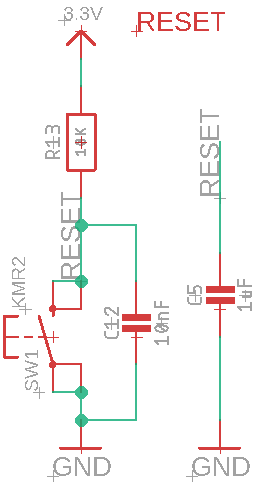
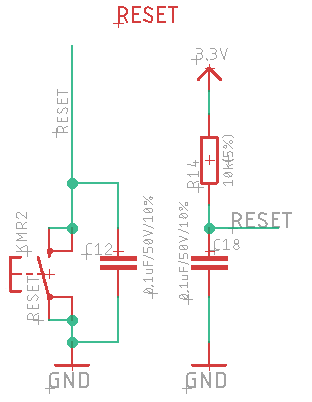
Documentation update

Changed region(s): [[0.0, 0.0, 0.9846, 0.9851]]

diff --git a/docs/_build/html/searchindex.js b/docs/_build/html/searchindex.js
@@ -1,1 +1,1 @@
-Search.setIndex({docnames:["get-started/index","hardware-design/index","index","software-design/index"],envversion:{"sphinx.domains.c":1,"sphinx.domains.changeset":1,"sphinx.domains.citation":1,"sphinx.domains.cpp":1,"sphinx.domains.index":1,"sphinx.domains.javascript":1,"sphinx.domains.math":2,"sphinx.domains.python":1,"sphinx.domains.rst":1,"sphinx.domains.std":1,sphinx:56},filenames:["get-started\\index.rst","hardware-design\\index.rst","index.rst","software-design\\index.rst"],objects:{},objnames:{},objtypes:{},terms:{"1uf":1,"38mm":0,"45mm":0,"const":3,"default":1,"finally":[0,3],"for":[0,1,2,3],"function":3,"new":0,"short":1,"switch":[0,1],"this":[0,1,2,3],"throw":2,"with":[0,1,2,3],RTS:1,_binary_esp_html_end:3,_binary_esp_html_start:3,able:0,abov:0,acce:0,accelero:3,acceleromet:3,according:3,account:0,actually:0,adafruit:1,add:3,added:1,address:3,adjust:0,after:0,aileron:[0,2],airplan:2,ajax:3,all:[0,2,3],alliexpress:0,allow:[0,1,3],allowing:0,alpha:3,also:3,and:[0,3],android:[0,2],angle:[0,2,3],any:[0,2],ap2112:1,appear:0,appliqu:[1,2],are:[0,1,2,3],around:1,arriv:0,asm:3,assembly:0,assigned:3,assignment:0,associated:3,associating:3,assuming:1,automatic:1,automatically:1,avoid:3,axe:3,back:3,bandgood:0,bar:[0,3],bas:1,based:[0,1,3],basically:3,battery:[0,1],becaus:0,being:3,below:1,between:1,big:0,bin:[0,3],bit:3,blink:0,blocking:1,board:[0,1,3],body:1,bom:1,boot:[0,1],bootload:1,bootstrap:[0,2,3],both:[0,3],breadboard:0,bridg:1,broken:1,brows:[0,2,3],build:2,built:[1,2,3],bus:3,but:[0,2,3],button:[0,3],calcul:3,calculated:3,calibr:[0,1,3],call:0,callback:3,cam:0,can:[0,1,2,3],capacitor:1,card:0,carry:3,cas:[1,3],casing:0,caus:3,cel:1,chang:[0,3],changed:3,charg:[0,1],charging:0,check:3,chip:1,chord:[0,3],chordcontrolsurfac:3,circuit:0,client:[0,2],clon:0,clos:0,cmak:2,cmakelist:3,cod:[0,3],collector:1,com:[0,1],combin:3,comfort:0,command:0,communicat:[0,1],compact:0,company:0,compared:0,compil:0,complementary:3,completed:0,completely:0,completing:0,component:[0,2,3],composed:3,compris:2,concept:0,conclus:0,condit:3,configur:0,connect:[1,3],connected:[0,1,3],connecting:1,connector:0,consist:3,consisting:3,contain:3,control:[0,1,2,3],controlled:1,controller:1,controlling:1,correspond:3,corresponding:3,cp2102n:1,cpp:3,creat:3,created:3,css:3,current:[1,3],cut:1,dat:[0,2,3],datasheet:1,deal:3,decided:0,defin:0,defined:3,deflect:[0,2,3],degre:[2,3],demo:0,demoboard:0,demonstr:0,design:[0,2],develop:0,developed:0,development:0,devic:[0,2],dhcp:3,different:[0,3],differential:2,difficult:3,dihedral:2,diod:1,direct:[2,3],directly:1,directory:2,directrory:2,disabl:1,disconnect:1,disconnecting:1,display:[0,1,3],displayed:[0,3],divid:1,dmg3415u:1,does:0,doff:2,doing:0,don:1,down:1,download:0,downloaded:1,dtr:1,dual:2,due:0,during:[0,3],each:[2,3],eagl:1,easily:0,eith:0,element:3,elevator:0,embed:3,embed_fil:3,embedded:[0,2,3],embedding:3,enabl:1,enabled:0,encouraging:0,engaged:1,enjoy:2,ensur:0,enter:1,environ:2,equiped:0,equipped:0,equivalent:2,es32:1,esp32:[0,1,2,3],esp:[0,2,3],esp_html_end:3,esp_html_start:3,esp_mad:[0,3],esp_mad_client:[2,3],esp_mad_serv:2,esp_mad_task_http_client:3,esp_mad_task_http_serv:3,esp_mad_task_measur:3,esp_map:3,espress:[0,1,2],esptool:1,essential:0,etc:[0,2],euros:0,event:3,event_group:3,eventually:[0,1],every:[2,3],excluding:0,express:[1,2],extens:2,extern:3,external:1,extra_component:2,extras:2,f3f:0,factor:0,fast:3,feath:1,featur:0,few:0,field:3,figur:[0,3],fil:[0,1,2,3],filt:3,find:[0,2],first:[2,3],fisnish:3,fix:1,flap:[0,2],flash:[0,1,3],flashing:0,flat:0,follow:0,following:[0,3],forc:1,form:0,formul:3,found:0,framework:[0,3],freertos:3,frequency:3,from:[0,1,2,3],fully:1,fusion:1,gat:1,get:[1,2,3],ginven:[],glid:[0,2],gliderthrow:2,gliderthrow_met:[0,1],global:3,gnd:[0,1],gpio0:1,great:1,ground:1,group:3,gyro:3,gyroscop:3,hardwar:[0,2],has:[0,1],hav:[0,1,3],having:2,held:1,hhtp:3,high:1,highly:2,hoc:[0,3],howev:0,html:[0,3],http:[0,2],http_serv:3,httpd:3,huzzah32:1,i2c:[0,1,3],i2clibdev:2,ide:2,identical:[0,3],idf:[0,2],implement:[0,3],incident:2,incorporat:0,index:2,indicat:0,inevitably:0,inform:[2,3],initial:0,initializ:[0,3],initialized:0,input:3,installed:0,integr:0,integrat:0,integrated:[0,1],integrating:0,interesting:3,interfac:[0,3],internal:1,internet:0,into:[0,1],invensens:0,io13:1,io22:1,io23:1,io35:1,ion:1,ios:[0,2],isn:1,its:[0,1],javascript:0,jquery:[0,2,3],jrowberg:2,just:3,kallman:3,lab:1,last:[0,1],launch:[0,3],launched:3,launching:3,layout:0,ldo:1,lead:0,least:0,leav:0,led:0,left:[1,2],librar:2,library:3,licens:2,lik:0,likely:3,lin:1,link:1,lit:0,littl:0,loading:[0,3],lolin32:0,lolin:0,low:[0,1],mac:2,machin:3,mad:[0,1,2,3],main:[0,3],major:1,mak:[1,3],man:3,manag:[0,1],mandatory:0,many:3,mapping:0,marking:0,maximum:0,mcp73831:1,measur:[0,1,2],measured:3,measuring:2,memory:3,met:2,method:3,micro:0,microship:1,millimeter:2,min:3,miniatur:1,minimum:0,mit:2,mobil:0,mod:[0,1,3],model:2,modem:1,modify:3,modul:[0,2],mor:[0,1,2,3],mosfet:1,most:[1,2],motion:3,mov:0,mpu6050:[0,2,3],mpu:2,much:2,must:0,nam:0,named:0,navigat:0,necessary:3,needed:[0,2],negat:0,net:0,network:[0,3],not:[0,1,3],npn:1,object:0,obtained:0,off:[0,1],one:[0,2,3],only:[0,3],open:1,oper:[0,3],order:0,other:[0,1],otherwis:1,our:1,out:[1,3],overall:3,pag:[0,2,3],pair:2,part:[0,2],particular:0,pcb:0,pdtc114t:1,perfectly:0,perform:3,periodically:3,permanently:1,personally:0,phas:0,phon:0,pin:[0,1],plan:1,platform:3,pleas:2,point:0,poly:1,port:[0,1],posit:0,possibility:0,possibl:[0,3],post:3,powered:[0,1],powering:0,present:[0,1],previous:3,primary:2,principl:0,probably:3,problem:0,procedur:0,process:0,processor:1,program:1,project:[0,2,3],protect:0,prototyp:0,protyping:0,published:2,pull:1,pulled:1,pullup:1,pushbutton:1,quickly:0,quiet:3,react:3,read:1,reading:3,reboot:0,receipt:3,receiv:3,received:3,recept:3,recharg:0,recharging:0,recherch:2,recommand:2,recommended:1,recorded:3,recording:0,recov:0,ref:[0,2],referenced:3,regul:1,regulator:1,released:3,reliabl:1,rememb:1,reprogramming:0,request:3,required:3,resistor:1,resolu:2,resourc:3,respectively:1,rest:0,restart:1,result:[0,1],retrieved:3,right:2,rodat:[2,3],routed:1,routing:0,run:1,sam:[0,1,2,3],satisfactory:0,sav:3,schem:1,schematic:[0,1],scl:[0,1],script:3,sda:[0,1],search:0,second:[2,3],section:[0,1,3],see:[1,3],segment:[2,3],select:[1,3],send:3,sensor:2,serv:[0,2],serveur:0,set:1,setting:[2,3],setup:[0,2],seven:1,several:0,shelf:0,show:[0,3],showing:3,shown:1,sid:0,signal:1,silicon:1,similar:0,simplif:2,sin:3,sinc:2,singl:[1,3],sit:3,slightly:0,slow:[0,3],small:[0,2,3],smartphon:[0,2],soc:2,softwar:[0,2],solut:3,som:0,somm:0,sourc:1,specificity:0,spi:3,spiff:3,ssid:[0,3],sta:0,stack:3,stacking:0,start:[1,3],started:2,starting:0,stat:1,station:[0,3],status:1,step:0,stick:0,still:1,stopped:3,strapped:1,surfac:[0,2,3],system:[0,2,3],system_event_ap_staconnected:3,system_event_ap_stadisconnected:3,system_event_ap_start:3,system_event_ap_stop:3,tab:3,tabl:0,tablet:0,tak:[0,1],target:0,targeted:0,term:0,test:0,tested:3,testing:3,than:[0,1,3],that:[0,1,2,3],the:[0,1,2],then:[0,1,3],ther:1,therefor:0,thes:[0,2,3],thre:[0,3],through:2,tim:[0,1,2],togeth:2,toggl:1,totally:[0,3],tp4056:0,transistor:1,transmitted:3,travel:3,tried:0,trigger:3,tru:3,turned:1,two:[0,1,2,3],txt:3,typ:[0,3],typical:1,uint8_t:3,unconnected:1,under:[0,1,2],unit:2,unlik:[0,1],updat:1,updated:3,url:[0,3],usb:0,use:[0,1,2],used:[0,1,2,3],using:[0,1,2,3],validat:3,valu:[0,1,3],variabl:3,variety:2,various:3,vbat:1,vbus:1,vcc:0,version:[0,3],very:[0,2],via:0,view:2,viewed:2,voltag:1,vscod:2,want:0,was:1,web:[0,2,3],wel:[0,3],wemos:0,when:[0,1,2,3],wher:3,which:[0,3],whos:1,wif:[0,3],will:[0,1,2,3],wing:2,wir:0,without:[0,1],word:3,work:0,working:2,would:0,wroom:0,xlsx:1,you:[1,2,3],your:[0,1,2,3],zip:1},titles:["Get Started","Hardware Design","Welcome to GliderThrow_Meter\u2019s documentation!","Software Design"],titleterms:{"32d":1,"with":[],adress:1,and:[1,2],architectur:3,autoreset:1,basic:0,bill:1,charging:1,circuit:1,client:3,connect:0,convert:1,design:[1,3],diagram:0,document:2,esd:[],esp:1,esp_map_task_http_client:3,filtering:1,first:0,functional:0,gerb:1,get:0,gliderthrow_met:2,hardwar:1,http:3,indic:2,introduct:0,led:1,lipo:1,logical:3,material:1,measur:3,mpu6050:1,need:0,pcb:1,pow:1,protect:[],prototyping:0,requir:0,reset:1,routing:1,second:0,serial:1,serv:3,softwar:3,stag:0,started:0,supply:1,tabl:2,task:3,the:3,usb:1,welcom:2,what:0,wroom:1,you:0}})
+Search.setIndex({docnames:["get-started/index","hardware-design/index","index","software-design/index"],envversion:{"sphinx.domains.c":2,"sphinx.domains.changeset":1,"sphinx.domains.citation":1,"sphinx.domains.cpp":2,"sphinx.domains.index":1,"sphinx.domains.javascript":2,"sphinx.domains.math":2,"sphinx.domains.python":2,"sphinx.domains.rst":2,"sphinx.domains.std":1,sphinx:56},filenames:["get-started/index.rst","hardware-design/index.rst","index.rst","software-design/index.rst"],objects:{},objnames:{},objtypes:{},terms:{"10k":1,"1uf":1,"38mm":0,"45mm":0,"const":3,"default":1,"finally":[0,3],"for":[0,1,2,3],"function":3,"new":0,"short":1,"switch":[0,1],"this":[0,1,2,3],"throw":2,"with":[0,1,2,3],RTS:1,_binary_esp_html_end:3,_binary_esp_html_start:3,able:0,abov:0,acce:0,accelero:3,acceleromet:3,according:3,account:0,actually:0,adafruit:1,add:3,added:1,address:3,adjust:0,after:0,aileron:[0,2],airplan:2,ajax:3,all:[0,2,3],alliexpress:0,allow:[0,1,3],allowing:0,alpha:3,also:[1,3],and:[0,3],android:[0,2],angle:[0,2,3],any:[0,2],ap2112:1,appear:0,appliqu:[1,2],architectur:1,are:[0,1,2,3],around:1,arriv:0,asm:3,assembly:0,assigned:3,assignment:0,associated:3,associating:3,assuming:1,automatic:1,automatically:1,avoid:3,axe:3,back:3,bandgood:0,bar:[0,3],bas:1,based:[0,1,3],basically:3,battery:[0,1],becaus:0,being:3,below:1,between:1,big:0,bin:[0,3],bit:3,blink:0,blocking:1,board:[0,1,3],body:1,bom:1,boot:0,bootload:1,bootstrap:[0,2,3],both:[0,3],breadboard:0,bridg:1,broken:1,brows:[0,2,3],build:2,built:[1,2,3],bus:[1,3],but:[0,2,3],button:[0,3],calcul:3,calculated:3,calibr:[0,1,3],call:0,callback:3,cam:0,can:[0,1,2,3],capacitor:1,card:0,carry:3,cas:[1,3],casing:0,caus:3,cel:1,chang:[0,3],changed:3,charg:[0,1],charging:0,check:3,chip:1,chord:[0,3],chordcontrolsurfac:3,circuit:0,client:[0,2],clon:0,clos:0,cmak:2,cmakelist:3,cod:[0,3],collector:1,com:[0,1],combin:3,comfort:0,command:0,communicat:[0,1],compact:0,company:0,compared:0,compil:0,complementary:3,completed:0,completely:0,completing:0,component:[0,2,3],composed:3,compris:2,concept:0,conclus:0,condit:3,configur:0,connect:[1,3],connected:[0,1,3],connecting:1,connector:0,consist:3,consisting:3,contain:3,control:[0,1,2,3],controlled:1,controller:1,controlling:1,correspond:3,corresponding:3,cp2102n:1,cpp:3,creat:3,created:3,css:3,current:[1,3],cut:1,dat:[0,2,3],datasheet:1,deal:3,decided:0,decoupling:1,defin:0,defined:[1,3],deflect:[0,2,3],degre:[2,3],demo:0,demoboard:0,demonstr:0,design:[0,2],detect:1,develop:0,developed:0,development:0,devic:[0,1,2],dhcp:3,different:[0,3],differential:2,difficult:3,dihedral:2,diod:1,direct:[2,3],directly:1,directory:2,directrory:2,disabl:1,disconnect:1,disconnecting:1,display:[0,1,3],displayed:[0,3],divid:1,dmg3415u:1,does:0,doff:2,doing:0,don:1,down:1,download:0,downloaded:1,dtr:1,dual:2,due:0,during:[0,3],each:[2,3],easily:0,eith:0,element:3,elevator:0,embed:3,embed_fil:3,embedded:[0,2,3],embedding:3,enabl:1,enabled:0,encouraging:0,engaged:1,enjoy:2,ensur:[0,1],enter:1,environ:2,equiped:0,equipped:0,equivalent:2,es32:1,esp32:[0,1,2,3],esp:[0,2,3],esp_html_end:3,esp_html_start:3,esp_mad:[0,3],esp_mad_client:[2,3],esp_mad_serv:2,esp_mad_task_http_client:3,esp_mad_task_http_serv:3,esp_mad_task_measur:3,esp_map:3,espress:[0,1,2],esptool:1,essential:0,etc:[0,2],euros:0,even:1,event:3,event_group:3,eventually:[0,1],every:[2,3],excluding:0,express:[1,2],extens:2,extern:3,external:1,extra_component:2,extras:2,f3f:0,factor:0,fast:3,feath:1,featur:0,few:0,field:3,figur:[0,3],fil:[0,2,3],filt:3,find:[0,2],first:[2,3],fisnish:3,fix:1,flap:[0,2],flash:[0,1,3],flashing:0,flat:0,follow:0,following:[0,3],forc:1,form:0,formul:3,found:0,framework:[0,3],freertos:3,frequency:3,from:[0,1,2,3],fully:1,fusion:1,gat:1,general:1,get:[1,2,3],glid:[0,2],gliderthrow:2,gliderthrow_met:0,global:3,gnd:0,gpio0:1,gpio:1,great:1,ground:1,group:3,gyro:3,gyroscop:3,hardwar:[0,2],has:[0,1],hav:[0,1,3],having:2,held:1,hhtp:3,high:1,highly:2,hoc:[0,3],howev:0,html:[0,3],http:[0,2],http_serv:3,httpd:3,huzzah32:1,i2c:[0,1,3],i2clibdev:2,ide:2,identical:[0,3],idf:[0,2],implement:[0,3],incident:2,incorporat:0,index:2,indicat:0,inevitably:0,inform:[2,3],initial:0,initializ:[0,3],initialized:0,input:3,installed:0,integr:0,integrat:0,integrated:[0,1],integrating:0,interesting:3,interfac:[0,3],internal:1,internet:0,into:[0,1],invensens:0,io13:1,io22:1,io23:1,io35:1,ion:1,ios:[0,2],isn:1,its:[0,1],javascript:0,jquery:[0,2,3],jrowberg:2,just:3,kallman:3,lab:1,last:[0,1],launch:[0,3],launched:3,launching:3,layout:0,ldo:1,lead:0,leakag:1,least:0,leav:0,led:0,left:[1,2],librar:2,library:3,licens:2,lik:0,likely:3,limit:1,lin:1,link:1,lit:0,littl:0,littlefus:1,loading:[0,3],lolin32:0,lolin:0,low:[0,1],mac:2,machin:3,mad:[0,1,2,3],main:[0,3],major:1,mak:[1,3],man:3,manag:[0,1],mandatory:0,many:3,mapping:0,marking:0,maximum:0,mcp73831:1,measur:[0,1,2],measured:3,measuring:2,meet:1,memory:3,met:[1,2],method:3,micro:0,microship:1,millimeter:2,min:3,miniatur:1,minimum:0,mit:2,mobil:0,mod:[0,1,3],model:2,modem:1,modify:3,modul:[0,2],mor:[0,1,2,3],mosfet:1,most:[1,2],motion:3,mov:0,mpu6050:[0,2,3],mpu:2,much:2,must:0,nam:0,named:0,navigat:0,necessary:3,needed:[0,2],negat:0,net:0,network:[0,3],not:[0,1,3],npn:1,object:0,obtained:0,off:[0,1],one:[0,2,3],only:[0,3],open:1,oper:[0,1,3],order:0,other:[0,1],otherwis:1,our:1,out:[1,3],overall:3,pag:[0,2,3],pair:2,part:[0,2],particular:0,pcb:0,pdtc114t:1,perfectly:0,perform:3,periodically:3,permanently:1,personally:0,phas:0,phon:0,pin:[0,1],plan:1,platform:3,pleas:2,point:0,poly:1,port:[0,1],posit:0,possibility:0,possibl:[0,3],post:3,powered:[0,1],powering:0,present:[0,1],prevent:1,previous:3,primary:2,principl:0,probably:3,problem:0,procedur:0,process:0,processor:1,program:1,project:[0,2,3],protect:0,prototyp:0,protyping:0,published:2,pull:1,pulled:1,pullup:1,pushbutton:1,quickly:0,quiet:3,react:3,read:1,reading:3,reboot:0,receipt:3,receiv:3,received:3,recept:3,recharg:0,recharging:0,recherch:2,recommand:2,recommended:1,recorded:3,recording:0,recov:0,ref:[0,2],referenced:3,regul:1,regulator:1,released:3,reliabl:1,rememb:1,reprogramming:0,request:3,required:[1,3],resistor:1,resolu:2,resourc:3,respectively:1,rest:0,restart:1,result:[0,1],retrieved:3,right:2,rodat:[2,3],routed:1,routing:0,rstb:1,run:1,sam:[0,1,2,3],satisfactory:0,sav:3,schem:1,schematic:[0,1],scl:[0,1],script:3,sda:[0,1],search:0,second:[2,3],section:[0,1,3],see:[1,3],segment:[2,3],select:[1,3],send:3,sensor:2,serv:[0,2],serveur:0,set:1,setting:[2,3],setup:[0,2],seven:1,several:0,shelf:0,show:[0,3],showing:3,shown:1,sid:0,signal:1,silicon:1,similar:0,simplif:2,sin:3,sinc:2,singl:[1,3],sit:3,slightly:0,slow:[0,3],small:[0,2,3],smartphon:[0,2],soc:2,softwar:[0,2],solut:3,som:0,somm:0,sourc:1,sp0503bahtg:1,specif:1,specificity:0,spi:3,spiff:3,ssid:[0,3],sta:0,stack:3,stacking:0,start:[1,3],started:2,starting:0,stat:1,station:[0,3],status:1,step:0,stick:0,still:1,stopped:3,strapped:1,strictly:1,surfac:[0,2,3],swith:1,system:[0,1,2,3],system_event_ap_staconnected:3,system_event_ap_stadisconnected:3,system_event_ap_start:3,system_event_ap_stop:3,tab:3,tabl:0,tablet:0,tak:[0,1],target:0,targeted:0,term:0,test:0,tested:3,testing:3,than:[0,1,3],that:[0,1,2,3],the:[0,1,2],then:[0,1,3],ther:1,therefor:0,thes:[0,1,2,3],though:1,thre:[0,3],through:2,tied:1,tim:[0,1,2],togeth:2,toggl:1,totally:[0,3],tp4056:0,transistor:1,transmitted:3,travel:3,tried:0,trigger:3,tru:3,turned:1,two:[0,1,2,3],txt:3,typ:[0,3],typical:1,uint8_t:3,unconnected:1,under:[0,1,2],unit:2,unlik:[0,1],updat:1,updated:3,url:[0,3],usb:0,use:[0,1,2],used:[0,1,2,3],using:[0,1,2,3],validat:3,valu:[0,1,3],variabl:3,variety:2,various:3,vbat:1,vbus:1,vcc:0,vdd:1,veregin:1,version:[0,3],very:[0,2],via:0,view:2,viewed:2,vio:1,voltag:1,vscod:2,want:0,was:1,web:[0,2,3],wel:[0,3],wemos:0,when:[0,1,2,3],wher:3,which:[0,1,3],whil:1,whos:1,wif:[0,3],will:[0,1,2,3],wing:2,wir:0,without:[0,1],word:3,work:0,working:2,would:0,wroom:0,xlsx:1,you:[1,2,3],your:[0,1,2,3],zip:1},titles:["Get Started","Hardware Design","Welcome to GliderThrow_Meter\u2019s documentation!","Software Design"],titleterms:{"32d":1,adress:1,and:[1,2],architectur:3,autoreset:1,basic:0,bill:1,boot:1,charging:1,circuit:1,client:3,connect:0,convert:1,design:[1,3],diagram:0,document:2,eagl:1,esd:1,esp:1,esp_map_task_http_client:3,fil:1,filtering:1,first:0,functional:0,gerb:1,get:0,gliderthrow_met:2,hardwar:1,http:3,indic:2,introduct:0,led:1,lipo:1,logical:3,material:1,measur:3,mpu6050:1,need:0,pcb:1,pow:1,protect:1,prototyping:0,requir:0,reset:1,routing:1,second:0,serial:1,serv:3,softwar:3,stag:0,started:0,supply:1,tabl:2,task:3,the:3,usb:1,welcom:2,what:0,wroom:1,you:0}})

diff --git a/docs/_build/html/hardware-design/index.html b/docs/_build/html/hardware-design/index.html
@@ -86,13 +86,14 @@
 <li class="toctree-l1 current"><a class="current reference internal" href="#">Hardware Design</a><ul>
 <li class="toctree-l2"><a class="reference internal" href="#power-supply-and-filtering">Power supply and filtering</a></li>
 <li class="toctree-l2"><a class="reference internal" href="#lipo-charging">Lipo charging</a></li>
-<li class="toctree-l2"><a class="reference internal" href="#usb-to-serial-converter">USB to serial converter</a></li>
+<li class="toctree-l2"><a class="reference internal" href="#usb-to-serial-converter-esd-protection">USB to serial converter + ESD protection</a></li>
 <li class="toctree-l2"><a class="reference internal" href="#mpu6050">MPU6050</a></li>
 <li class="toctree-l2"><a class="reference internal" href="#esp-wroom-32d-autoreset">ESP-WROOM-32D &amp; Autoreset</a></li>
 <li class="toctree-l2"><a class="reference internal" href="#reset-circuit">Reset circuit</a></li>
+<li class="toctree-l2"><a class="reference internal" href="#boot-circuit">Boot circuit</a></li>
 <li class="toctree-l2"><a class="reference internal" href="#adressable-led">Adressable LED</a></li>
 <li class="toctree-l2"><a class="reference internal" href="#pcb-routing">PCB routing</a></li>
-<li class="toctree-l2"><a class="reference internal" href="#bill-of-material-gerber">Bill Of Material &amp; Gerber</a></li>
+<li class="toctree-l2"><a class="reference internal" href="#bill-of-material-eagle-files-gerber">Bill Of Material, Eagle Files &amp; Gerber</a></li>
 </ul>
 </li>
 </ul>
@@ -162,23 +163,27 @@
   <div class="section" id="hardware-design">
 <h1>Hardware Design<a class="headerlink" href="#hardware-design" title="Lien permanent vers ce titre">¶</a></h1>
 <p>The hardware design is based on the <a class="reference external" href="https://github.com/adafruit/Adafruit-HUZZAH32-ESP32-Feather-PCB">Adafruit HUZZAH32 ES32 feather open source board</a></p>
+<p>The general architecture of the system is shown below.</p>
+<img alt="../_images/macro-architecture.png" class="align-center" src="../_images/macro-architecture.png" />
 <dl class="simple">
-<dt>The GliderThrow_Meter design is broken down into seven major sections :</dt><dd><ul class="simple">
+<dt>The design is broken down into seven major sections :</dt><dd><ul class="simple">
 <li><p>Power supply and filtering,</p></li>
 <li><p>Lipo charging,</p></li>
-<li><p>USB to serial converter</p></li>
+<li><p>USB to serial converter + ESD protection,</p></li>
 <li><p>MPU6050,</p></li>
-<li><p>ESP-WROOM-32D &amp; Autoreset</p></li>
-<li><p>Reset circuit</p></li>
-<li><p>Adressable LED</p></li>
+<li><p>ESP-WROOM-32D &amp; Autoreset,</p></li>
+<li><p>Reset circuit,</p></li>
+<li><p>Boot circuit,</p></li>
+<li><p>Adressable LED.</p></li>
 </ul>
 </dd>
 </dl>
+<img alt="../_images/schematic.PNG" class="align-center" src="../_images/schematic.PNG" />
 <div class="section" id="power-supply-and-filtering">
 <h2>Power supply and filtering<a class="headerlink" href="#power-supply-and-filtering" title="Lien permanent vers ce titre">¶</a></h2>
 <img alt="../_images/power-supply-design.png" class="align-center" src="../_images/power-supply-design.png" />
 <p>The board can be powered from a 5V USB port (VBUS), or from a 3,7 V LIPO (or Li-Ion) 1S battery.</p>
-<p>The battery is connected to a switch that allows the battery power to be turned ON/OFF.</p>
+<p>The battery is connected to a switch that allows the battery supply to be turned ON/OFF.</p>
 <p>A DMG3415U (MOSFET transistor) is used to switch between VBUS and VBAT. When VBUS is not present, the gate is pulled low, and the MOSFET shorts out the body diode, connecting VBAT directly to the LDO. When VBUS is greater than VBAT (that is our case), the MOSFET is cut off and the body diode is blocking, disconnecting VBAT from the circuit. EN pin of the DMG3415U is pulled low to permanently to enable the chip.</p>
 <p>So with this switch, VBAT enters to the AP2112-3.3v LDO, if VBUS isn’t present, otherwise VBUS enters to the AP2112-3.3.</p>
 </div>
@@ -191,14 +196,18 @@
 </div>
 <img alt="../_images/lipo-charging-design.png" class="align-center" src="../_images/lipo-charging-design.png" />
 </div>
-<div class="section" id="usb-to-serial-converter">
-<h2>USB to serial converter<a class="headerlink" href="#usb-to-serial-converter" title="Lien permanent vers ce titre">¶</a></h2>
+<div class="section" id="usb-to-serial-converter-esd-protection">
+<h2>USB to serial converter + ESD protection<a class="headerlink" href="#usb-to-serial-converter-esd-protection" title="Lien permanent vers ce titre">¶</a></h2>
 <p>The USB serial converter is based on a CP2102N from Silicon Labs.</p>
+<p>ESD protection is done using a SP0503BAHTG from littlefuse as recommended on the datasheet.</p>
+<p>VEREGIN, VDD &amp; VIO pins are tied to +3.3V, and also RSTB pin as recommended on the datasheet.</p>
+<p>Two decoupling capacitors are also used.</p>
+<p>To detect when the device is connected to a bus, which is defined as VIO – 0.6 V, a resistor divider on VBUS is required to meet these specifications and ensure reliable device operation. In this case, the current limitation of the resistor divider prevents high VBUS pin leakage current, even though the VIO + 2.5 V specification is not strictly met while the device is not powered.</p>
 <img alt="../_images/usb-to-serial-design.png" class="align-center" src="../_images/usb-to-serial-design.png" />
 </div>
 <div class="section" id="mpu6050">
 <h2>MPU6050<a class="headerlink" href="#mpu6050" title="Lien permanent vers ce titre">¶</a></h2>
-<p>The circuit for the MPU6050 is a typical application scheme (see datasheet). SDA and SCL pins are connected to the pins 22 &amp; 23 of the ESP-WROOM-32D.</p>
+<p>The circuit for the MPU6050 is a typical application scheme (see datasheet). SDA and SCL pins are connected to the pins 22 &amp; 23 of the ESP-WROOM-32D with two pullup resistors.</p>
 <img alt="../_images/mpu6050-design.png" class="align-center" src="../_images/mpu6050-design.png" />
 </div>
 <div class="section" id="esp-wroom-32d-autoreset">
@@ -220,8 +229,13 @@
 <div class="section" id="reset-circuit">
 <h2>Reset circuit<a class="headerlink" href="#reset-circuit" title="Lien permanent vers ce titre">¶</a></h2>
 <p>Enable (EN) is the 3.3V regulator’s enable pin. It’s pulled up, so connect to ground to disable the 3.3V regulator. So we connect this pin a pushbutton to restart your ESP32.</p>
-<p>As recommended by espressif a 1uF value capacitor is added between EN pin and GND to make automatic reset more reliable.</p>
+<p>As recommended by espressif a RC circuit with a resistor of 10k and a capacitor of 0,1uF is added between EN pin and +3,3V to make automatic reset more reliable.</p>
 <img alt="../_images/reset-circuit-design.png" class="align-center" src="../_images/reset-circuit-design.png" />
+</div>
+<div class="section" id="boot-circuit">
+<h2>Boot circuit<a class="headerlink" href="#boot-circuit" title="Lien permanent vers ce titre">¶</a></h2>
+<p>Boot swith is connected to GPIO.</p>
+<img alt="../_images/boot-circuit-design.PNG" class="align-center" src="../_images/boot-circuit-design.PNG" />
 </div>
 <div class="section" id="adressable-led">
 <h2>Adressable LED<a class="headerlink" href="#adressable-led" title="Lien permanent vers ce titre">¶</a></h2>
@@ -231,14 +245,15 @@
 <div class="section" id="pcb-routing">
 <h2>PCB routing<a class="headerlink" href="#pcb-routing" title="Lien permanent vers ce titre">¶</a></h2>
 <p>The routed PCB (without ground plan) is shown below. The routing was done under EAGLE.</p>
-<img alt="../_images/pcb_RevE.png" class="align-center" src="../_images/pcb_RevE.png" />
+<img alt="../_images/pcb.png" class="align-center" src="../_images/pcb.png" />
 <p>3D made with fusion 360 is shown below.</p>
-<img alt="../_images/board-outline-v10.png" class="align-center" src="../_images/board-outline-v10.png" />
+<img alt="../_images/board-outline.png" class="align-center" src="../_images/board-outline.png" />
 </div>
-<div class="section" id="bill-of-material-gerber">
-<h2>Bill Of Material &amp; Gerber<a class="headerlink" href="#bill-of-material-gerber" title="Lien permanent vers ce titre">¶</a></h2>
-<p>BOM can be downloaded at this link <a class="reference external" href="https://github.com/adesandr/GliderThrow_Meter/blob/master/docs/_bom/bom_revE.xlsx">xlsx file</a></p>
-<p>Gerber files can be downloaded at this link <a class="reference external" href="https://github.com/adesandr/GliderThrow_Meter/blob/master/Gerber/ESP_MAD_RevE_2020-10-11.zip">zip file</a></p>
+<div class="section" id="bill-of-material-eagle-files-gerber">
+<h2>Bill Of Material, Eagle Files &amp; Gerber<a class="headerlink" href="#bill-of-material-eagle-files-gerber" title="Lien permanent vers ce titre">¶</a></h2>
+<p>BOM can be downloaded at this link <a class="reference external" href="https://github.com/adesandr/GliderThrow_Meter/blob/master/docs/_bom/bom.xlsx">xlsx file</a></p>
+<p>Gerber files can be downloaded at this link <a class="reference external" href="https://github.com/adesandr/GliderThrow_Meter/blob/master/Gerber/ESP_MAD_Gerber.zip">zip file</a></p>
+<p>Eagle files can be downloaded at this link <a class="reference external" href="https://github.com/adesandr/GliderThrow_Meter/blob/master/docs/Eagle/eagle-files.zip">zip file</a></p>
 </div>
 </div>
 

diff --git a/docs/_build/html/_static/translations.js b/docs/_build/html/_static/translations.js
@@ -1,1 +1,1 @@
-Documentation.addTranslations({"locale": "fr", "messages": {"%(filename)s &#8212; %(docstitle)s": "%(filename)s &#8212; %(docstitle)s", "&#169; <a href=\"%(path)s\">Copyright</a> %(copyright)s.": "&#169; <a href=\"%(path)s\">Copyright</a> %(copyright)s.", "&#169; Copyright %(copyright)s.": "&#169; Copyright %(copyright)s.", ", in ": ", dans", "About these documents": "\u00c0 propos de ces documents", "Automatically generated list of changes in version %(version)s": "Liste auto-g\u00e9n\u00e9r\u00e9e des modifications dans la version %(version)s", "C API changes": "Modifications de l'API C", "Changes in Version %(version)s &#8212; %(docstitle)s": "Changements dans la version %(version)s &#8212; %(docstitle)s", "Collapse sidebar": "R\u00e9duire la barre lat\u00e9rale", "Complete Table of Contents": "Table des mati\u00e8res compl\u00e8te", "Contents": "Contenu", "Copyright": "Copyright", "Created using <a href=\"http://sphinx-doc.org/\">Sphinx</a> %(sphinx_version)s.": "Cr\u00e9\u00e9 avec <a href=\"http://sphinx-doc.org/\">Sphinx</a> %(sphinx_version)s.", "Expand sidebar": "Agrandir la barre lat\u00e9rale", "From here you can search these documents. Enter your search\n    words into the box below and click \"search\". Note that the search\n    function will automatically search for all of the words. Pages\n    containing fewer words won't appear in the result list.": "Vous pouvez effectuer une recherche au sein des documents. Saisissez les termes\nde votre recherche dans le champs ci-dessous et cliquez sur \"rechercher\". Notez que la fonctionnalit\u00e9 de recherche\nva automatiquement chercher l'ensemble des mots. Les pages\ncontenant moins de mots n'appara\u00eetront pas dans la liste des r\u00e9sultats.", "Full index on one page": "Index complet sur une seule page", "General Index": "Index g\u00e9n\u00e9ral", "Global Module Index": "Index g\u00e9n\u00e9ral des modules", "Go": "Go", "Hide Search Matches": "Cacher les r\u00e9sultats de la recherche", "Index": "Index", "Index &ndash; %(key)s": "Index &ndash; %(key)s", "Index pages by letter": "Indexer les pages par lettre", "Indices and tables:": "Indices et tables :", "Last updated on %(last_updated)s.": "Mis \u00e0 jour le %(last_updated)s.", "Library changes": "Modifications de la biblioth\u00e8que", "Navigation": "Navigation", "Next topic": "Sujet suivant", "Other changes": "Autres modifications", "Overview": "R\u00e9sum\u00e9", "Permalink to this definition": "Lien permanent vers cette d\u00e9finition", "Permalink to this headline": "Lien permanent vers ce titre", "Please activate JavaScript to enable the search\n    functionality.": "Veuillez activer le JavaScript pour que la recherche fonctionne.", "Preparing search...": "Pr\u00e9paration de la recherche...", "Previous topic": "Sujet pr\u00e9c\u00e9dent", "Quick search": "Recherche rapide", "Search": "Recherche", "Search Page": "Page de recherche", "Search Results": "R\u00e9sultats de la recherche", "Search finished, found %s page(s) matching the search query.": "La recherche est finie, %s page(s) trouv\u00e9e(s) qui corresponde(nt) \u00e0 la recherche.", "Search within %(docstitle)s": "Recherchez dans %(docstitle)s", "Searching": "Recherche en cours", "Show Source": "Montrer le code source", "Table of Contents": "Table des mati\u00e8res", "This Page": "Cette page", "Welcome! This is": "Bienvenue ! Ceci est", "Your search did not match any documents. Please make sure that all words are spelled correctly and that you've selected enough categories.": "Votre recherche ne correspond \u00e0 aucun document. Veuillez v\u00e9rifier que les mots sont correctement orthographi\u00e9s et que vous avez s\u00e9lectionn\u00e9 assez de cat\u00e9gories.", "all functions, classes, terms": "toutes les fonctions, classes, termes", "can be huge": "peut \u00eatre \u00e9norme", "last updated": "derni\u00e8re modification", "lists all sections and subsections": "lister l'ensemble des sections et sous-sections", "next chapter": "Chapitre suivant", "previous chapter": "Chapitre pr\u00e9c\u00e9dent", "quick access to all modules": "acc\u00e8s rapide \u00e0 l'ensemble des modules", "search": "rechercher", "search this documentation": "rechercher dans cette documentation", "the documentation for": "la documentation pour"}, "plural_expr": "(n > 1)"});
+Documentation.addTranslations({"locale": "fr", "messages": {"%(filename)s &#8212; %(docstitle)s": "%(filename)s &#8212; %(docstitle)s", "&#169; <a href=\"%(path)s\">Copyright</a> %(copyright)s.": "&#169; <a href=\"%(path)s\">Copyright</a> %(copyright)s.", "&#169; Copyright %(copyright)s.": "&#169; Copyright %(copyright)s.", ", in ": ", dans", "About these documents": "\u00c0 propos de ces documents", "Automatically generated list of changes in version %(version)s": "Liste auto-g\u00e9n\u00e9r\u00e9e des modifications dans la version %(version)s", "C API changes": "Modifications de l'API C", "Changes in Version %(version)s &#8212; %(docstitle)s": "Changements dans la version %(version)s &#8212; %(docstitle)s", "Collapse sidebar": "R\u00e9duire la barre lat\u00e9rale", "Complete Table of Contents": "Table des mati\u00e8res compl\u00e8te", "Contents": "Contenu", "Copyright": "Copyright", "Created using <a href=\"http://sphinx-doc.org/\">Sphinx</a> %(sphinx_version)s.": "Cr\u00e9\u00e9 avec <a href=\"http://sphinx-doc.org/\">Sphinx</a> %(sphinx_version)s.", "Expand sidebar": "Agrandir la barre lat\u00e9rale", "Full index on one page": "Index complet sur une seule page", "General Index": "Index g\u00e9n\u00e9ral", "Global Module Index": "Index g\u00e9n\u00e9ral des modules", "Go": "Go", "Hide Search Matches": "Cacher les r\u00e9sultats de la recherche", "Index": "Index", "Index &ndash; %(key)s": "Index &ndash; %(key)s", "Index pages by letter": "Indexer les pages par lettre", "Indices and tables:": "Indices et tables :", "Last updated on %(last_updated)s.": "Mis \u00e0 jour le %(last_updated)s.", "Library changes": "Modifications de la biblioth\u00e8que", "Navigation": "Navigation", "Next topic": "Sujet suivant", "Other changes": "Autres modifications", "Overview": "R\u00e9sum\u00e9", "Permalink to this definition": "Lien permanent vers cette d\u00e9finition", "Permalink to this headline": "Lien permanent vers ce titre", "Please activate JavaScript to enable the search\n    functionality.": "Veuillez activer le JavaScript pour que la recherche fonctionne.", "Preparing search...": "Pr\u00e9paration de la recherche...", "Previous topic": "Sujet pr\u00e9c\u00e9dent", "Quick search": "Recherche rapide", "Search": "Recherche", "Search Page": "Page de recherche", "Search Results": "R\u00e9sultats de la recherche", "Search finished, found %s page(s) matching the search query.": "La recherche est finie, %s page(s) trouv\u00e9e(s) qui corresponde(nt) \u00e0 la recherche.", "Search within %(docstitle)s": "Recherchez dans %(docstitle)s", "Searching": "Recherche en cours", "Searching for multiple words only shows matches that contain\n    all words.": "", "Show Source": "Montrer le code source", "Table of Contents": "Table des mati\u00e8res", "This Page": "Cette page", "Welcome! This is": "Bienvenue ! Ceci est", "Your search did not match any documents. Please make sure that all words are spelled correctly and that you've selected enough categories.": "Votre recherche ne correspond \u00e0 aucun document. Veuillez v\u00e9rifier que les mots sont correctement orthographi\u00e9s et que vous avez s\u00e9lectionn\u00e9 assez de cat\u00e9gories.", "all functions, classes, terms": "toutes les fonctions, classes, termes", "can be huge": "peut \u00eatre \u00e9norme", "last updated": "derni\u00e8re modification", "lists all sections and subsections": "lister l'ensemble des sections et sous-sections", "next chapter": "Chapitre suivant", "previous chapter": "Chapitre pr\u00e9c\u00e9dent", "quick access to all modules": "acc\u00e8s rapide \u00e0 l'ensemble des modules", "search": "rechercher", "search this documentation": "rechercher dans cette documentation", "the documentation for": "la documentation pour"}, "plural_expr": "(n > 1)"});

diff --git a/docs/_build/html/_static/searchtools.js b/docs/_build/html/_static/searchtools.js
@@ -251,6 +251,7 @@ var Search = {
         var item = results.pop();
         var listItem = $('<li style="display:none"></li>');
         var requestUrl = "";
+        var linkUrl = "";
         if (DOCUMENTATION_OPTIONS.BUILDER === 'dirhtml') {
           // dirhtml builder
           var dirname = item[0] + '/';
@@ -260,13 +261,15 @@ var Search = {
             dirname = '';
           }
           requestUrl = DOCUMENTATION_OPTIONS.URL_ROOT + dirname;
+          linkUrl = requestUrl;
 
         } else {
           // normal html builders
           requestUrl = DOCUMENTATION_OPTIONS.URL_ROOT + item[0] + DOCUMENTATION_OPTIONS.FILE_SUFFIX;
+          linkUrl = item[0] + DOCUMENTATION_OPTIONS.LINK_SUFFIX;
         }
         listItem.append($('<a/>').attr('href',
-            requestUrl +
+            linkUrl +
             highlightstring + item[2]).html(item[1]));
         if (item[3]) {
           listItem.append($('<span> (' + item[3] + ')</span>'));

diff --git a/docs/_build/html/_static/documentation_options.js b/docs/_build/html/_static/documentation_options.js
@@ -5,6 +5,7 @@ var DOCUMENTATION_OPTIONS = {
     COLLAPSE_INDEX: false,
     BUILDER: 'html',
     FILE_SUFFIX: '.html',
+    LINK_SUFFIX: '.html',
     HAS_SOURCE: true,
     SOURCELINK_SUFFIX: '.txt',
     NAVIGATION_WITH_KEYS: false
